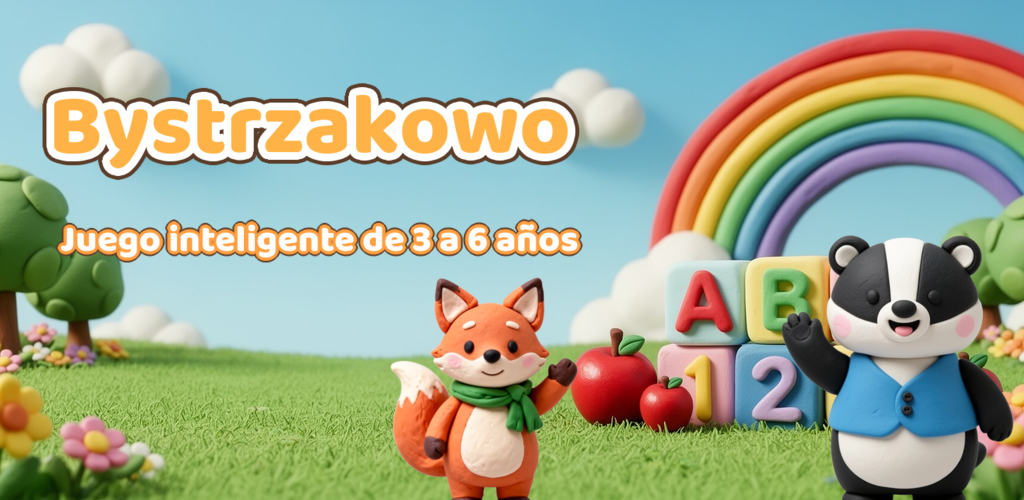
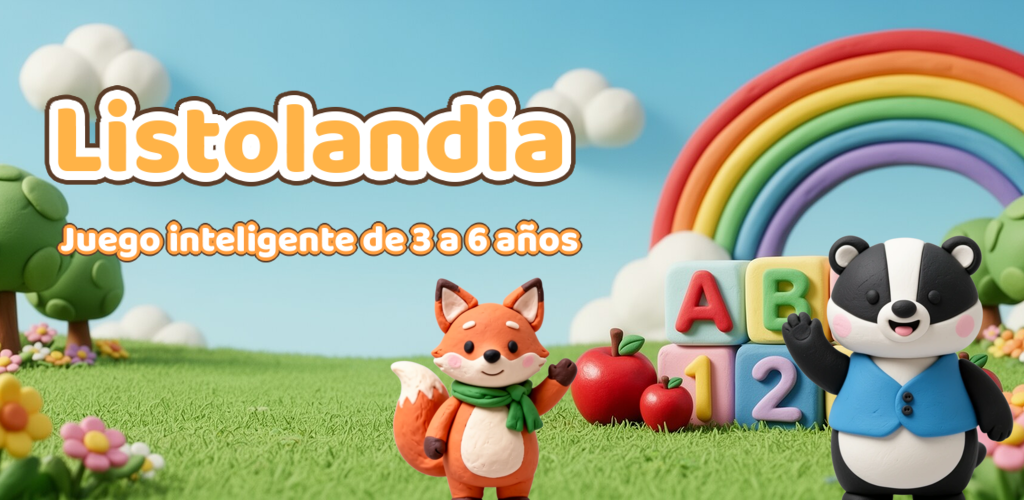
Bystrzakowo: nazwa zależna od języka (PL Bystrzakowo, EN Smartyville, DE Schlaudorf, ES Listolandia): teksty gry, nazwa pod ikoną (iOS InfoPlist.strings, Android values-*), karty i opisy do sklepów, grafika Google Play

Changed region(s): [[0.0312, 0.15, 0.5625, 0.39]]

diff --git a/games/bystrzakowo/src/sim/locales/de.ts b/games/bystrzakowo/src/sim/locales/de.ts
@@ -46,16 +46,16 @@ export const DE: Record<string, string> = {
   nothingHereYetColored: 'Noch leer. Hier erscheinen ausgemalte Bilder und Stickerbilder.',
   saveSend: 'Speichern / senden',
   areYouSure: 'Sicher?',
-  pictureFromBystrzakowo: 'Ein Bild aus Bystrzakowo',
+  pictureFromBystrzakowo: 'Ein Bild aus Schlaudorf',
   weeklyPostcardFullVersion: 'Wochenpostkarte in der Vollversion',
   everyWeekLovelyCard: 'Jede Woche eine schöne Karte mit Lusia und Basil: der Name Ihres Kindes und seine größten Erfolge. Speichern Sie sie in Ihren Fotos oder schicken Sie sie an Oma und Opa.',
   saveSendPostcard: 'Postkarte speichern / senden',
-  postcardFromBystrzakowo: 'Eine Postkarte aus Bystrzakowo',
+  postcardFromBystrzakowo: 'Eine Postkarte aus Schlaudorf',
   littleSmarty: 'Kleiner Schlaukopf',
   thisWeek: 'diese Woche:',
   waitingPlayTogether: 'wartet aufs gemeinsame Spielen!',
-  firstGamesBystrzakowo: 'Erste Spiele in Bystrzakowo',
-  bystrzakowoWorksOfflineHas: 'Bystrzakowo funktioniert ohne Internet, ohne Werbung und sammelt keine Daten. Fortschritt, Name und Werke Ihres Kindes werden nur auf diesem Gerät gespeichert.',
+  firstGamesBystrzakowo: 'Erste Spiele in Schlaudorf',
+  bystrzakowoWorksOfflineHas: 'Schlaudorf funktioniert ohne Internet, ohne Werbung und sammelt keine Daten. Fortschritt, Name und Werke Ihres Kindes werden nur auf diesem Gerät gespeichert.',
   childNameLabel: 'Name des Kindes: {name}',
   childsNameNotSet: 'Name des Kindes: nicht angegeben',
   musicOn: 'Musik: an',
@@ -95,7 +95,7 @@ export const DE: Record<string, string> = {
   skip: 'Überspringen',
   next: 'Weiter',
   letsStart: 'Los geht’s',
-  welcomeBystrzakowo: 'Willkommen in Bystrzakowo!',
+  welcomeBystrzakowo: 'Willkommen in Schlaudorf!',
   puzzlesCountingLettersShapes: 'Rätsel, Zählen, Buchstaben, Formen und Geschichten für Kinder von 3 bis 6 Jahren. Lusia und Basil lesen jede Aufgabe vor, Ihr Kind muss also nicht lesen können. Ohne Werbung und ohne Internet.',
   parentArea: 'Elternbereich',
   pressHoldGearCorner: 'Halten Sie das Zahnrad in der Bildschirmecke 2 Sekunden gedrückt. Dort finden Sie die Fortschritte Ihres Kindes, ein Album mit Werken, ein Spielzeit-Limit, Sprache und Ton. Kauf und Teilen von Bildern schützt zusätzlich eine kurze Rechenaufgabe.',
@@ -171,5 +171,5 @@ export const DE: Record<string, string> = {
   demoChildName: 'Lena',
   // Privacy policy (parent zone, settings).
   privacyPolicy: "Datenschutzerklärung",
-  privacyBody: "Stand: November 2026.\n\nBystrzakowo erhebt, sendet und teilt keine Daten. Es gibt keine Werbung, keine Analyse, kein Tracking und keine Konten, und die App verbindet sich nicht mit unseren Servern.\n\nAuf dem Gerät wird nur gespeichert, was das Spiel braucht: der Fortschritt (Stufen, Sticker, gelöste Aufgaben für den Elternbericht), der Vorname des Kindes, falls ein Elternteil ihn einträgt, die Werke des Kindes (Ausmalbilder und Stickerbilder) und die Einstellungen. Diese Daten verlassen das Gerät nicht. Sie werden beim Deinstallieren der App oder mit „Fortschritt zurücksetzen“ gelöscht.\n\nEin Bild oder eine Postkarte kann nur im Elternbereich hinter der Elternsperre geteilt werden. Sie gehen an die App, die der Elternteil wählt (z. B. Fotos oder Nachrichten); wir erhalten sie nicht.\n\nDer Kauf der Vollversion läuft vollständig über Apple (App Store) oder Google (Google Play). Zahlungsdaten verarbeiten diese Unternehmen; wir erhalten sie nicht.\n\nKontakt: mkdev.appslab@gmail.com\nVollständige Fassung: mkdev.com.pl/apps/bystrzakowo/privacy-policy",
+  privacyBody: "Stand: November 2026.\n\nSchlaudorf erhebt, sendet und teilt keine Daten. Es gibt keine Werbung, keine Analyse, kein Tracking und keine Konten, und die App verbindet sich nicht mit unseren Servern.\n\nAuf dem Gerät wird nur gespeichert, was das Spiel braucht: der Fortschritt (Stufen, Sticker, gelöste Aufgaben für den Elternbericht), der Vorname des Kindes, falls ein Elternteil ihn einträgt, die Werke des Kindes (Ausmalbilder und Stickerbilder) und die Einstellungen. Diese Daten verlassen das Gerät nicht. Sie werden beim Deinstallieren der App oder mit „Fortschritt zurücksetzen“ gelöscht.\n\nEin Bild oder eine Postkarte kann nur im Elternbereich hinter der Elternsperre geteilt werden. Sie gehen an die App, die der Elternteil wählt (z. B. Fotos oder Nachrichten); wir erhalten sie nicht.\n\nDer Kauf der Vollversion läuft vollständig über Apple (App Store) oder Google (Google Play). Zahlungsdaten verarbeiten diese Unternehmen; wir erhalten sie nicht.\n\nKontakt: mkdev.appslab@gmail.com\nVollständige Fassung: mkdev.com.pl/apps/bystrzakowo/privacy-policy",
 };

diff --git a/games/bystrzakowo/src/sim/locales/es.ts b/games/bystrzakowo/src/sim/locales/es.ts
@@ -46,16 +46,16 @@ export const ES: Record<string, string> = {
   nothingHereYetColored: 'Todavía está vacío. Aquí aparecerán los dibujos coloreados y las imágenes con calcomanías.',
   saveSend: 'Guardar / enviar',
   areYouSure: '¿Seguro?',
-  pictureFromBystrzakowo: 'Una imagen de Bystrzakowo',
+  pictureFromBystrzakowo: 'Una imagen de Listolandia',
   weeklyPostcardFullVersion: 'Postal semanal en la versión completa',
   everyWeekLovelyCard: 'Cada semana, una linda tarjeta con Lusia y Basil: el nombre de tu hijo o hija y sus mayores logros. Guárdala en tus fotos o envíala a los abuelos.',
   saveSendPostcard: 'Guardar / enviar postal',
-  postcardFromBystrzakowo: 'Una postal de Bystrzakowo',
+  postcardFromBystrzakowo: 'Una postal de Listolandia',
   littleSmarty: 'Pequeño Listillo',
   thisWeek: 'esta semana:',
   waitingPlayTogether: '¡espera para jugar juntos!',
-  firstGamesBystrzakowo: 'Primeros juegos en Bystrzakowo',
-  bystrzakowoWorksOfflineHas: 'Bystrzakowo funciona sin internet, sin anuncios y no recopila ningún dato. El progreso, el nombre y las creaciones se guardan solo en este dispositivo.',
+  firstGamesBystrzakowo: 'Primeros juegos en Listolandia',
+  bystrzakowoWorksOfflineHas: 'Listolandia funciona sin internet, sin anuncios y no recopila ningún dato. El progreso, el nombre y las creaciones se guardan solo en este dispositivo.',
   childNameLabel: 'Nombre: {name}',
   childsNameNotSet: 'Nombre: sin indicar',
   musicOn: 'Música: activada',
@@ -95,7 +95,7 @@ export const ES: Record<string, string> = {
   skip: 'Omitir',
   next: 'Siguiente',
   letsStart: 'Empezar',
-  welcomeBystrzakowo: '¡Bienvenidos a Bystrzakowo!',
+  welcomeBystrzakowo: '¡Bienvenidos a Listolandia!',
   puzzlesCountingLettersShapes: 'Acertijos, números, letras, formas y cuentos para niños de 3 a 6 años. Lusia y Basil leen cada instrucción en voz alta, así que no hace falta saber leer. Sin anuncios y sin internet.',
   parentArea: 'Zona para padres',
   pressHoldGearCorner: 'Mantén pulsado el engranaje de la esquina de la pantalla durante 2 segundos. Ahí encontrarás el progreso de tu hijo o hija, un álbum de creaciones, un límite de tiempo de juego, el idioma y el sonido. Las compras y el envío de imágenes también están protegidos con una operación sencilla.',
@@ -171,5 +171,5 @@ export const ES: Record<string, string> = {
   demoChildName: 'Sofía',
   // Privacy policy (parent zone, settings).
   privacyPolicy: "Política de privacidad",
-  privacyBody: "Última actualización: noviembre de 2026.\n\nBystrzakowo no recopila, envía ni comparte ningún dato. No hay anuncios, analítica, seguimiento ni cuentas, y la aplicación no se conecta a nuestros servidores.\n\nEn el dispositivo solo se guarda lo que el juego necesita: el progreso (niveles, calcomanías, tareas resueltas para el informe para padres), el nombre del niño o la niña si un adulto lo escribe, sus creaciones (dibujos coloreados e imágenes con calcomanías) y los ajustes. Estos datos no salen del dispositivo. Se borran al desinstalar la aplicación o con «Borrar el progreso».\n\nUna imagen o una postal solo se puede compartir en la zona para padres, tras el control parental. Va a la aplicación que elija el adulto (por ejemplo, Fotos o Mensajes); nosotros no la recibimos.\n\nLa compra de la versión completa la gestionan por completo Apple (App Store) o Google (Google Play). Ellos tratan los datos de pago; nosotros no los recibimos.\n\nContacto: mkdev.appslab@gmail.com\nPolítica completa: mkdev.com.pl/apps/bystrzakowo/privacy-policy",
+  privacyBody: "Última actualización: noviembre de 2026.\n\nListolandia no recopila, envía ni comparte ningún dato. No hay anuncios, analítica, seguimiento ni cuentas, y la aplicación no se conecta a nuestros servidores.\n\nEn el dispositivo solo se guarda lo que el juego necesita: el progreso (niveles, calcomanías, tareas resueltas para el informe para padres), el nombre del niño o la niña si un adulto lo escribe, sus creaciones (dibujos coloreados e imágenes con calcomanías) y los ajustes. Estos datos no salen del dispositivo. Se borran al desinstalar la aplicación o con «Borrar el progreso».\n\nUna imagen o una postal solo se puede compartir en la zona para padres, tras el control parental. Va a la aplicación que elija el adulto (por ejemplo, Fotos o Mensajes); nosotros no la recibimos.\n\nLa compra de la versión completa la gestionan por completo Apple (App Store) o Google (Google Play). Ellos tratan los datos de pago; nosotros no los recibimos.\n\nContacto: mkdev.appslab@gmail.com\nPolítica completa: mkdev.com.pl/apps/bystrzakowo/privacy-policy",
 };

diff --git a/games/bystrzakowo/src/sim/locales/en.ts b/games/bystrzakowo/src/sim/locales/en.ts
@@ -46,16 +46,16 @@ export const EN: Record<string, string> = {
   nothingHereYetColored: 'Nothing here yet. Colored pages and sticker pictures will appear here.',
   saveSend: 'Save / send',
   areYouSure: 'Are you sure?',
-  pictureFromBystrzakowo: 'A picture from Bystrzakowo',
+  pictureFromBystrzakowo: 'A picture from Smartyville',
   weeklyPostcardFullVersion: 'Weekly postcard in the full version',
   everyWeekLovelyCard: 'Every week a lovely card with Lusia and Basil: your child\'s name and biggest successes. Save it to your photos or send it to grandma and grandpa.',
   saveSendPostcard: 'Save / send postcard',
-  postcardFromBystrzakowo: 'A postcard from Bystrzakowo',
+  postcardFromBystrzakowo: 'A postcard from Smartyville',
   littleSmarty: 'Little Smarty',
   thisWeek: 'this week:',
   waitingPlayTogether: 'is waiting to play together!',
-  firstGamesBystrzakowo: 'First games in Bystrzakowo',
-  bystrzakowoWorksOfflineHas: 'Bystrzakowo works offline, has no ads and collects no data. Progress, your child\'s name and creations are saved only on this device.',
+  firstGamesBystrzakowo: 'First games in Smartyville',
+  bystrzakowoWorksOfflineHas: 'Smartyville works offline, has no ads and collects no data. Progress, your child\'s name and creations are saved only on this device.',
   childNameLabel: 'Child\'s name: {name}',
   childsNameNotSet: 'Child\'s name: not set',
   musicOn: 'Music: on',
@@ -95,7 +95,7 @@ export const EN: Record<string, string> = {
   skip: 'Skip',
   next: 'Next',
   letsStart: 'Let\'s start',
-  welcomeBystrzakowo: 'Welcome to Bystrzakowo!',
+  welcomeBystrzakowo: 'Welcome to Smartyville!',
   puzzlesCountingLettersShapes: 'Puzzles, counting, letters, shapes and stories for children aged 3 to 6. Lusia and Basil read every instruction aloud, so your child doesn’t need to read. No ads and no internet.',
   parentArea: 'Parent area',
   pressHoldGearCorner: 'Press and hold the gear in the corner of the screen for 2 seconds. There you’ll find your child’s progress, an album of creations, a play time limit, language and sound. Purchases and sharing pictures are also protected by a quick sum.',
@@ -171,5 +171,5 @@ export const EN: Record<string, string> = {
   demoChildName: 'Emma',
   // Privacy policy (parent zone, settings).
   privacyPolicy: "Privacy policy",
-  privacyBody: "Last updated: November 2026.\n\nBystrzakowo does not collect, send or share any data. There are no ads, analytics, tracking or accounts, and the app does not connect to our servers.\n\nThe device stores only what the game needs: progress (levels, stickers, solved tasks for the parent report), the child's first name if a parent enters it, the child's creations (coloring pages and sticker pictures) and settings. This data never leaves the device. Uninstalling the app or \"Reset progress\" deletes it.\n\nA picture or postcard can be shared only in the parent zone, behind the parental gate. It goes to the app the parent chooses (for example Photos or Messages); we never receive it.\n\nThe full version is purchased entirely through Apple (App Store) or Google (Google Play). Payment data is handled by them; we never receive it.\n\nContact: mkdev.appslab@gmail.com\nFull policy: mkdev.com.pl/apps/bystrzakowo/privacy-policy",
+  privacyBody: "Last updated: November 2026.\n\nSmartyville does not collect, send or share any data. There are no ads, analytics, tracking or accounts, and the app does not connect to our servers.\n\nThe device stores only what the game needs: progress (levels, stickers, solved tasks for the parent report), the child's first name if a parent enters it, the child's creations (coloring pages and sticker pictures) and settings. This data never leaves the device. Uninstalling the app or \"Reset progress\" deletes it.\n\nA picture or postcard can be shared only in the parent zone, behind the parental gate. It goes to the app the parent chooses (for example Photos or Messages); we never receive it.\n\nThe full version is purchased entirely through Apple (App Store) or Google (Google Play). Payment data is handled by them; we never receive it.\n\nContact: mkdev.appslab@gmail.com\nFull policy: mkdev.com.pl/apps/bystrzakowo/privacy-policy",
 };

diff --git a/games/bystrzakowo/store/listing.md b/games/bystrzakowo/store/listing.md
@@ -6,12 +6,14 @@ Limity Google Play: nazwa ≤ 30, krótki opis ≤ 80, pełny opis ≤ 4000.
 
 ## Nazwa i podtytuł
 
+Nazwa aplikacji zależy od języka: **Bystrzakowo** (pl), **Smartyville** (en), **Schlaudorf** (de), **Listolandia** (es). Tak samo pod ikoną na telefonie (iOS: `*.lproj/InfoPlist.strings`, Android: `res/values*/strings.xml`; domyślnie, dla pozostałych języków, Smartyville) i w tekstach gry. Postaci we wszystkich językach poza polskim: Lusia i Basil.
+
 | Język | Nazwa (≤ 30) | Podtytuł App Store (≤ 30) | Krótki opis Google (≤ 80) |
 |---|---|---|---|
 | pl | Bystrzakowo: zagadki malucha | Liczenie, literki, logika 3–6 | Zagadki, liczenie, literki i historyjki dla dzieci 3–6 lat. Bez reklam. |
-| en | Bystrzakowo: Preschool Games | Learn & play, ages 3–6 | Puzzles, counting, letters and stories for kids aged 3–6. No ads. |
-| de | Bystrzakowo: Lernspiele Kita | Lernen & spielen, 3–6 Jahre | Rätsel, Zählen, Buchstaben und Geschichten für Kinder von 3–6. Ohne Werbung. |
-| es | Bystrzakowo: Juegos Infantiles | Aprende y juega, 3 a 6 años | Acertijos, números, letras y cuentos para niños de 3 a 6 años. Sin anuncios. |
+| en | Smartyville: Preschool Games | Learn & play, ages 3–6 | Puzzles, counting, letters and stories for kids aged 3–6. No ads. |
+| de | Schlaudorf: Lernspiele Kita | Lernen & spielen, 3–6 Jahre | Rätsel, Zählen, Buchstaben und Geschichten für Kinder von 3–6. Ohne Werbung. |
+| es | Listolandia: Juegos Infantiles | Aprende y juega, 3 a 6 años | Acertijos, números, letras y cuentos para niños de 3 a 6 años. Sin anuncios. |
 
 ## Tekst promocyjny (App Store ≤ 170)
 
@@ -51,7 +53,7 @@ Języki: polski, angielski, niemiecki, hiszpański.
 
 ## Description (en)
 
-Bystrzakowo is a land of smart play for children aged 3 to 6. Lusia and Basil, two clay friends, guide your child through 21 games that teach counting, letters, colors, shapes, emotions and logical thinking. Every instruction is read aloud, so no reading is needed.
+Smartyville is a land of smart play for children aged 3 to 6. Lusia and Basil, two clay friends, guide your child through 21 games that teach counting, letters, colors, shapes, emotions and logical thinking. Every instruction is read aloud, so no reading is needed.
 
 FOUR LANDS
 • Puzzle Meadow: colors, first letters, animal mommies, pairs, shadows, odd one out, counting and faces.
@@ -80,7 +82,7 @@ Languages: English, German, Spanish, Polish.
 
 ## Beschreibung (de)
 
-Bystrzakowo ist ein Land voller kluger Spiele für Kinder von 3 bis 6 Jahren. Lusia und Basil, zwei Freunde aus Knete, begleiten Ihr Kind durch 21 Spiele, die Zählen, Buchstaben, Farben, Formen, Gefühle und logisches Denken fördern. Alle Anweisungen werden vorgelesen, Lesen ist nicht nötig.
+Schlaudorf ist ein Land voller kluger Spiele für Kinder von 3 bis 6 Jahren. Lusia und Basil, zwei Freunde aus Knete, begleiten Ihr Kind durch 21 Spiele, die Zählen, Buchstaben, Farben, Formen, Gefühle und logisches Denken fördern. Alle Anweisungen werden vorgelesen, Lesen ist nicht nötig.
 
 VIER LÄNDER
 • Rätselwiese: Farben, Anlaute, Tiermamas, Paare, Schatten, „Was passt nicht?“, Zählen und Gesichter.
@@ -109,7 +111,7 @@ Sprachen: Deutsch, Englisch, Spanisch, Polnisch.
 
 ## Descripción (es)
 
-Bystrzakowo es un mundo de juegos inteligentes para niños de 3 a 6 años. Lusia y Basil, dos amigos de plastilina, acompañan a tu hijo o hija en 21 juegos que enseñan números, letras, colores, formas, emociones y pensamiento lógico. Todas las instrucciones se leen en voz alta, así que no hace falta saber leer.
+Listolandia es un mundo de juegos inteligentes para niños de 3 a 6 años. Lusia y Basil, dos amigos de plastilina, acompañan a tu hijo o hija en 21 juegos que enseñan números, letras, colores, formas, emociones y pensamiento lógico. Todas las instrucciones se leen en voz alta, así que no hace falta saber leer.
 
 CUATRO MUNDOS
 • Pradera de Acertijos: colores, primera letra, mamás de animales, parejas, sombras, ¿cuál sobra?, contar y caritas.
@@ -175,7 +177,7 @@ Idiomas: español, inglés, alemán, polaco.
 
 ## Notatki dla recenzji (App Review / Google)
 
-Bystrzakowo is an educational app for children aged 3–6 (Kids category, Ages 5 and Under). All instructions are voiced, so children do not need to read. UI languages: Polish, English, German, Spanish (follows the device language; can be changed in the parent zone).
+Bystrzakowo (called Smartyville in English, Schlaudorf in German and Listolandia in Spanish) is an educational app for children aged 3–6 (Kids category, Ages 5 and Under). All instructions are voiced, so children do not need to read. UI languages: Polish, English, German, Spanish (follows the device language; can be changed in the parent zone).
 
 Parental gate: the parent zone (gear icon, top left) opens after pressing and holding the gear for 2 seconds. The in-app purchase, "Restore purchase" and every Share button additionally require solving a multiplication question (adult gate). Everything aimed at adults is inside the parent zone: the progress report, the album with the Share button (system share sheet), the weekly postcard, settings, and the in-app purchase.
 
@@ -186,6 +188,6 @@ No ads, no analytics, no accounts, no data collection, and no third-party SDKs t
 ## Wersja 1.0.0: „Co nowego”
 
 - pl: Pierwsza wersja Bystrzakowa: 21 zabaw w czterech krainach, raport dla rodzica i pocztówka tygodnia.
-- en: The first version of Bystrzakowo: 21 games in four lands, a parent report and a weekly postcard.
-- de: Die erste Version von Bystrzakowo: 21 Spiele in vier Ländern, ein Elternbericht und eine Wochenpostkarte.
-- es: La primera versión de Bystrzakowo: 21 juegos en cuatro mundos, un informe para padres y una postal semanal.
+- en: The first version of Smartyville: 21 games in four lands, a parent report and a weekly postcard.
+- de: Die erste Version von Schlaudorf: 21 Spiele in vier Ländern, ein Elternbericht und eine Wochenpostkarte.
+- es: La primera versión de Listolandia: 21 juegos en cuatro mundos, un informe para padres y una postal semanal.

diff --git a/docs/bystrzakowo.md b/docs/bystrzakowo.md
@@ -253,6 +253,8 @@ Research oczekiwań rodziców: `docs/bystrzakowo-rodzice.md`.
 
 ## Języki (2026-11-21)
 
+**Nazwa w językach (decyzja 2026-11-25):** „Bystrzakowo” zostaje tylko po polsku. Po angielsku **Smartyville**, po niemiecku **Schlaudorf**, po hiszpańsku **Listolandia** (wszystkie oznaczają „krainę bystrzaków”; w dniu decyzji wolne w App Store i Google Play, „Brainyville” było zajęte). Nazwa zmienia się w tekstach gry (`locales/*.ts`), pod ikoną (iOS `ios/App/App/<język>.lproj/InfoPlist.strings`, Android `res/values-<język>/strings.xml`; domyślnie Smartyville), w kartach sklepów (`store/listing.md`) i na grafice Google Play. Adres polityki prywatności (`/apps/bystrzakowo/…`) i identyfikator aplikacji `com.mkdev.bystrzakowo` zostają.
+
 Polski (podstawowy), angielski, niemiecki i hiszpański (latynoamerykański, słownictwo meksykańskie) w jednej aplikacji. Język: z telefonu (spoza listy: angielski),
 rodzic zmienia go w Ustawieniach strefy rodzica; w playtestach `?lang=en|de|pl`.
 
